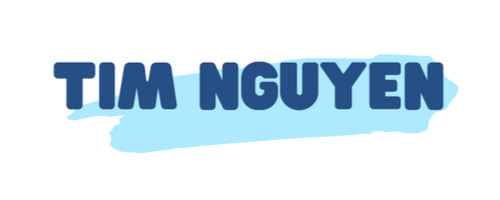
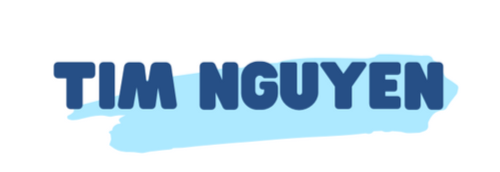
update

Changed region(s): [[0.09, 0.2616, 0.93, 0.9012]]

diff --git a/src/app/home/main/main.tsx b/src/app/home/main/main.tsx
@@ -2,17 +2,25 @@ import Image from "next/image";
 import { Button } from "@/components/ui/button";
 
 import css from "./main.module.css";
+import Link from "next/link";
 
 export default function Main() {
   return (
-    <Image
-      className={`h-fit w-full`}
-      priority
-      src={`/images/SITETIMNGUYEN/Bannersite2.png`}
-      width={5035}
-      height={788}
-      alt="main"
-    ></Image>
+    <div className="relative h-fit w-full">
+      <Image
+        className={`h-fit w-full`}
+        priority
+        src={`/images/SITETIMNGUYEN/Bannersite2.png`}
+        width={5035}
+        height={788}
+        alt="main"
+      ></Image>
+      <Link
+        href="https://www.timnguyen.us/index"
+        target="_blank"
+        className="absolute h-[2vw] w-[8vw] left-[37%] bottom-[6%]"
+      ></Link>
+    </div>
   );
   // <div className={`relative h-[400px] w-full`}>
 

diff --git a/src/app/(header)/NavBar/NavBar.tsx b/src/app/(header)/NavBar/NavBar.tsx
@@ -26,7 +26,7 @@ export default function Navbar() {
           <div className="w-full text-base bg-[#FD6D14] text-black text-center leading-[20px] py-2 ">
             <h3 className="font-medium italic">
               Website này, Tim muốn cung cấp những tools miễn phí giúp mọi người
-              check để cải thiện sức khoẻ tài chính hơn và đồng thời muốn mọi
+              dùng để cải thiện sức khoẻ tài chính hơn và đồng thời muốn mọi
               người hiểu hơn về giảm nợ!
             </h3>
           </div>

diff --git a/src/app/(content)/about/HowTimCanHelp/help.tsx b/src/app/(content)/about/HowTimCanHelp/help.tsx
@@ -22,7 +22,7 @@ const list = [
 export default function Help() {
   return (
     <div className={`flex flex-col items-center max-w-screen-xl my-10`}>
-      <div className="flex h-[100px] w-full font-black sm:text-3xl xl:text-4xl justify-center items-center">
+      <div className="flex h-[80px] w-full font-black sm:text-3xl xl:text-4xl justify-center items-center">
         <Image
           src="/images/logoTimtron1.png"
           width={63}
